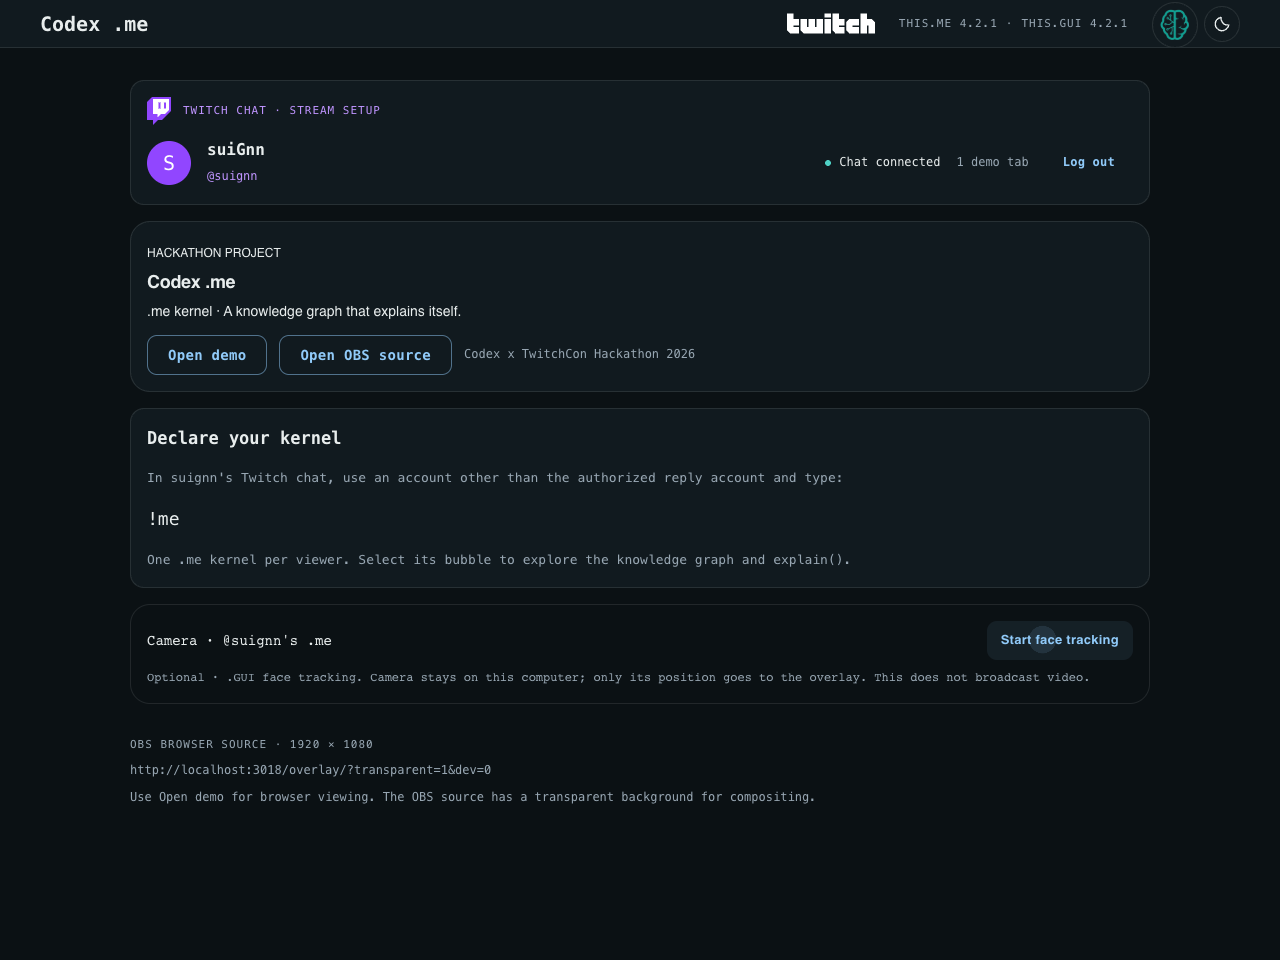
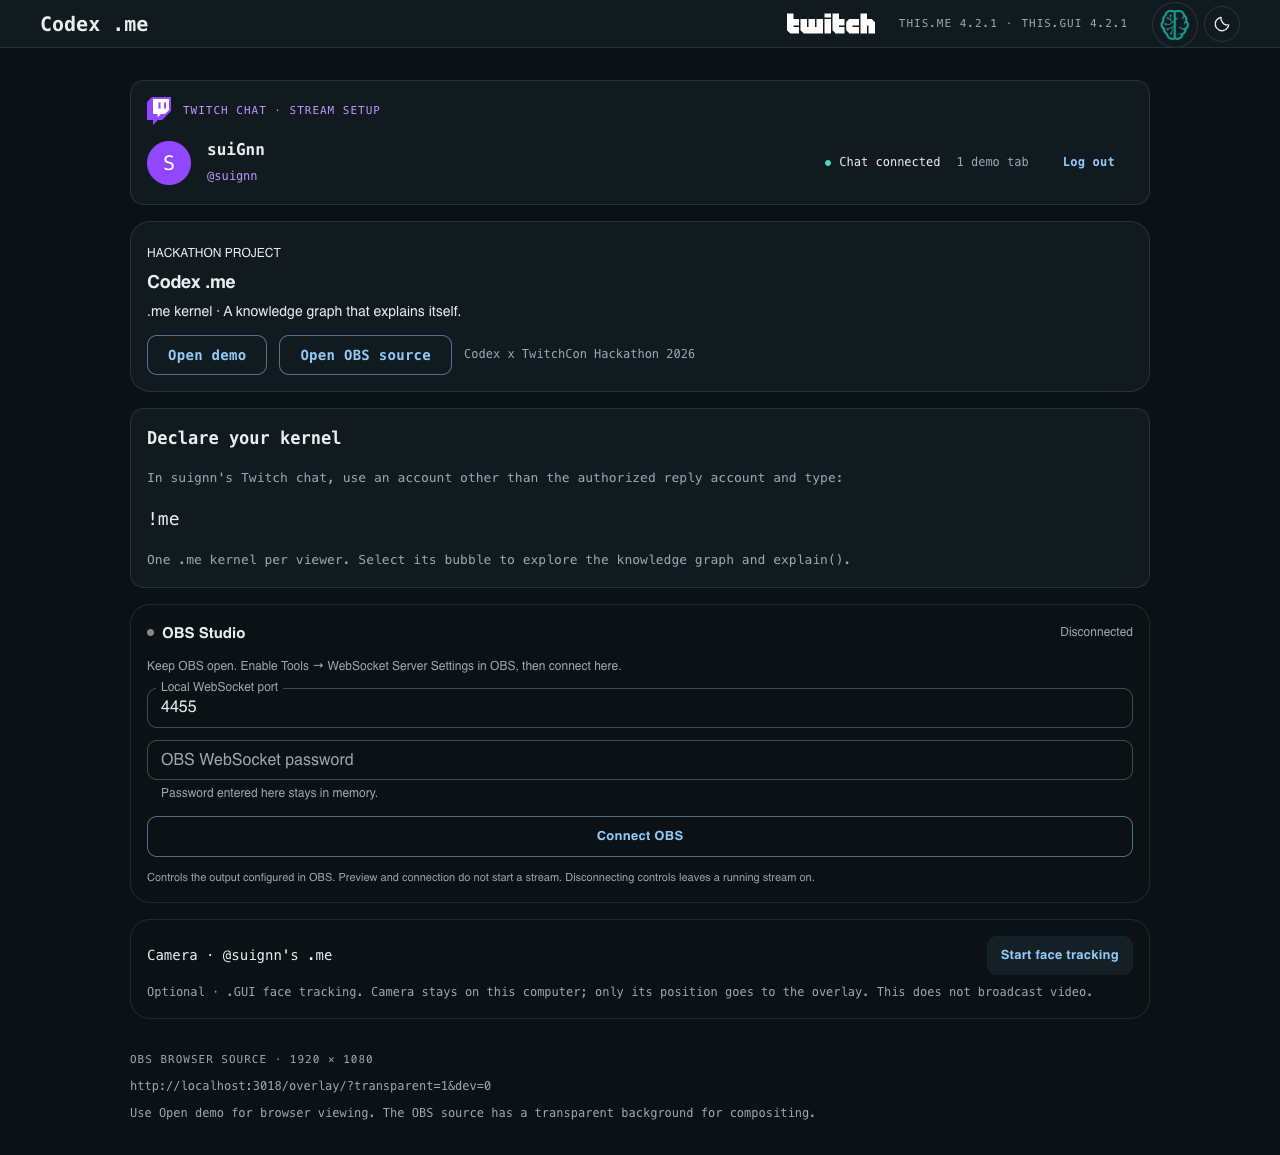
feat: enlarge me bubbles in web and OBS views

diff --git a/overlay/spiders.js b/overlay/spiders.js
@@ -61,9 +61,9 @@ function Kernel({ kernel, index, count, selected, onSelect, face }) {
   const tracked = face && face.owner === kernel.owner;
   const fitWidth = face ? Math.min(1920, 1080 * face.aspect) : 1920;
   const fitHeight = face ? Math.min(1080, 1920 / face.aspect) : 1080;
-  const x = tracked ? Math.max(44, Math.min(1876, (1920 - fitWidth) / 2 + face.x * fitWidth)) : (index % columns + 0.5 + (columns - rowCount) / 2) * 1600 / columns + 160;
-  const y = tracked ? Math.max(64, Math.min(1036, (1080 - fitHeight) / 2 + face.y * fitHeight - 32)) : (Math.floor(index / columns) + 0.5) * 780 / rows + 110;
-  const scale = tracked ? 1 : Math.min(2.8, 1600 / columns / 145, 780 / rows / 100);
+  const scale = tracked ? 2.8 : Math.min(3.6, 1600 / columns / 145, 780 / rows / 100);
+  const x = tracked ? Math.max(44 * scale, Math.min(1920 - 44 * scale, (1920 - fitWidth) / 2 + face.x * fitWidth)) : (index % columns + 0.5 + (columns - rowCount) / 2) * 1600 / columns + 160;
+  const y = tracked ? Math.max(64 * scale, Math.min(1080 - 44 * scale, (1080 - fitHeight) / 2 + face.y * fitHeight - 32)) : (Math.floor(index / columns) + 0.5) * 780 / rows + 110;
   return h('g', { 'data-me-id': kernel.id, 'data-me-bubble': kernel.id, 'data-face-follow': tracked ? 'true' : undefined,
     transform: `translate(${x} ${y}) scale(${scale})`, onClick: onSelect, role: transparent ? undefined : 'button', tabIndex: transparent ? undefined : 0,
     onKeyDown: event => { if (event.key === 'Enter' || event.key === ' ') { event.preventDefault(); onSelect(event); } },

diff --git a/README.md b/README.md
@@ -55,7 +55,7 @@ The profile and bubble card use the label `@<login>.twitch` with the actual avat
 
 Clicking a bubble opens its controls beside the node, synchronized with the inspector. Both share the selected kernel/path. Clicking or focusing a channel field, selecting tags, a profile avatar/display name, a follower count or any available live-stream value selects its matching inspector leaf. The matching rendered control receives a theme-colored outline. Selecting a branch or leaf in the inspector also reopens the selected node’s card if closed, without moving keyboard focus or changing the active sidebar. Selecting a profile ID highlights its account header; no extra ID field is added to the GUI. The card initially shows Stream (Live now or Offline); the inspector initially selects the me.twitch root. Closing the card preserves selection. These controls remain outside the transparent OBS source.
 
-The inspector alone presents formatted whole-section JSON or a compact leaf value, with an icon-only Copy action and no surrounding code card. Its code tree starts at **me.twitch**, with **profile / stream / channel / followers** as lowercase property keys instead of category tabs. Expand branches to see actual stored leaves and their values, then select a row to inspect it. The root is a navigation view without a duplicate aggregate output; selecting a branch or leaf reveals its Output, Explain and Script controls. Arrow keys, Home/End and Enter navigate the tree. Branches are UI groupings of real memory paths; unloaded API sections have no fabricated values and are fetched on selection. Long string previews are truncated in the tree, while selecting the leaf exposes its complete value. It automatically reads `me(path)` from the existing server kernel. Compact **Explain / Script** controls below the output show the actual `me.explain(path)` JSON or the complete construction source, including expression, derivation and metadata from this.me 4.2.1. Tab selection persists across paths and kernels; obsolete query results are hidden. Explain is initially selected; arrow keys and Home/End navigate the tabs. Native GUI syntax highlighting is preserved without code-block headers, borders or backgrounds; copy actions use the overlapping-squares icon with accessible tooltips. Explain presents the matching syntax directly on the inspector background. Its compact **L…** link identifies the original source line(s), and the **{}** icon reveals the unmodified native explanation only when requested. The location link (**View in Script** to assistive technology) opens the complete, numbered script and scrolls to the highlighted declaration. Locations refer to the currently displayed reproducible construction script; they are not native VM execution frames or historical call stacks. Unrelated profile/section declarations are omitted from the Explain excerpt. The construction script is not re-executed, and arbitrary code/eval is not accepted. This object inspector is separate from GUI's general interface inspector and browser DOM developer tools. Face following changes presentation only.
+The inspector alone presents formatted whole-section JSON or a compact leaf value, with an icon-only Copy action and no surrounding code card. Its code tree starts at **me.twitch**, with **profile / stream / channel / followers** as lowercase property keys instead of category tabs. Expand branches to see actual stored leaves and their values, then select a row to inspect it. The root is a navigation view without a duplicate aggregate output; selecting a branch or leaf reveals its Output, Explain and Script controls. Arrow keys, Home/End and Enter navigate the tree. Branches are UI groupings of real memory paths; unloaded API sections have no fabricated values and are fetched on selection. Long string previews are truncated in the tree, while selecting the leaf exposes its complete value. It automatically reads `me(path)` from the existing server kernel. Compact **Explain / Script** controls below the output show the actual `me.explain(path)` JSON or the complete construction source, including expression, derivation and metadata from this.me 4.2.1. Tab selection persists across paths and kernels; obsolete query results are hidden. Explain is initially selected; arrow keys and Home/End navigate the tabs. Native GUI syntax highlighting is preserved without code-block headers, borders or backgrounds; copy actions use the overlapping-squares icon with accessible tooltips. Explain presents the matching syntax directly on the inspector background. Its compact **L…** link identifies the original source line(s), and the **{}** icon reveals the unmodified native explanation only when requested. The location link (**View in Script** to assistive technology) opens the complete, numbered script and scrolls to the highlighted declaration. Locations refer to the currently displayed reproducible construction script; they are not native VM execution frames or historical call stacks. Unrelated profile/section declarations are omitted from the Explain excerpt. The construction script is not re-executed, and arbitrary code/eval is not accepted. This object inspector is separate from GUI's general interface inspector and browser DOM developer tools. Face following changes presentation only. Bubble sizes use a larger resting cap (3.6) and tracking scale (2.8), with density limits and proportional frame margins to keep the scene readable.
 
 ### Permissions and optional channel editing
 

diff --git a/evidence/SESSION.md b/evidence/SESSION.md
@@ -576,3 +576,10 @@ Stats screenshot confirms 257/6822 (3.8%) skipped frames due to encoding, 79/141
 ### 2026-10-29 — camera fitted without cropping, after owner choice
 
 The owner explicitly chose preserving the full camera image with possible side bars. Applied OBS Edit → Transform → Fit to screen to Video Capture Device in Scene. Verified in Edit Transform that Bounds=Fit, bounds=1920×1080, bounds alignment=center, original source=640×480, rotation=0 and all four crop values=0. The resulting 4:3 camera renders at 1440×1080 with 240px side bars on the 16:9 canvas; the scene preview confirms full-height centered framing instead of a small corner source. Browser overlay remains above the camera. The source stayed locked. No stream was started, no encoder/network setting changed, and no claim is made that this fixes lag or verifies face alignment. Transform-only evidence is stored under evidence/obs/camera-fit.*; the scene screenshot used for local review was kept outside the repository.
+
+
+### 2026-10-29 — larger .me bubbles
+
+At the owner's request, increased the resting grid bubble cap from scale 2.8 to 3.6 and face-follow scale from 1 to 2.8. The existing grid density limits still shrink crowded layouts. Follow-position frame margins now scale with the larger bubble to reduce edge clipping; native kernel values and tracking coordinates remain unchanged. Updated and passed the isolated synthetic-camera/GUI/server/OBS integration, including the existing anchor mapping and the new 2.8 follow scale. Original test/ files remain unchanged.
+
+Refreshed only the OBS Browser source while the owner's stream was active, without starting or stopping it. Native preview visibly shows the larger bubble. The active web demo was refreshed after confirming no unsaved field/chat draft; its DOM reports scale(3.6). Current neurons.me theme was preserved. The real camera scene screenshot was kept outside the repository for local review. This size adjustment does not resolve the previously measured encoding/network lag, and no new face-alignment claim is made.
